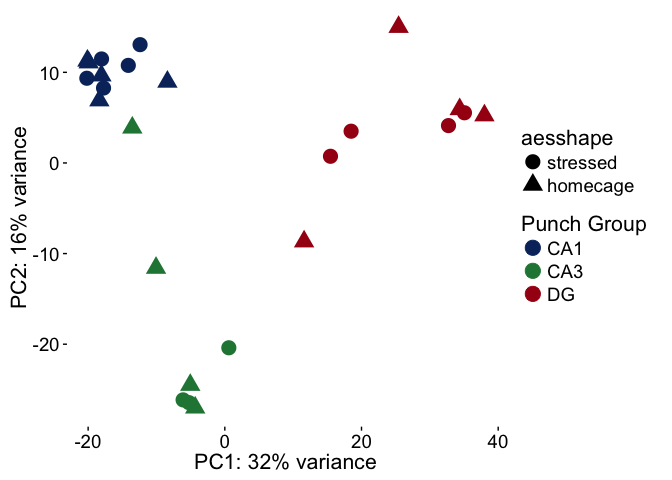
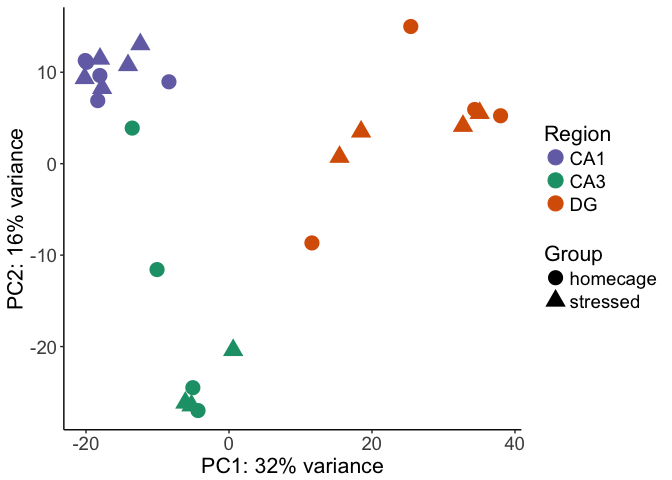
stress test

diff --git a/markdownfiles/02_StressTest.md b/markdownfiles/02_StressTest.md
@@ -1,19 +1,19 @@
-Methods for Dorsal Hippocampal Gene Expression Profiling
---------------------------------------------------------
+Behavioral Stress
+-----------------
 
-#### Part 1: Examining the influence of dissasociation on gene expression in the CA1, CA3, and DG
+In this analysis, I examine the effect that behavioral stress has on
+CA1, CA3, and DG gene expression relative to homogenized tissue samples.
 
 Subset to just look homogenized and dissociated samples
 -------------------------------------------------------
 
     colData <- colData %>%
-      filter(method != "dissociated") %>% droplevels()
+      filter(Method != "dissociated") %>% droplevels()
     colData$Group <- plyr::revalue(colData$Group, c("control"="stressed"))
+    colData$Group <- factor(colData$Group, levels = c("homecage", "stressed"))
     savecols <- as.character(colData$RNAseqID) #selects all good samples
     savecols <- as.vector(savecols) # make it a vector
     countData <- countData %>% select(one_of(savecols)) # keep good samples
-
-![](../figures/02_stresstest/DifferentialGeneExpressionAnalysis-1.png)
 
 This PCA gives an overview of the variability between samples using the
 a large matrix of log transformed gene expression data. You can see that
@@ -22,86 +22,65 @@ CA1 and CA3 samples have similar transcriptomes. The homogenized CA1
 samples have the most similar transcriptonal profiles as evidenced by
 their tight clustering.
 
-![](../figures/02_stresstest/PCA-1.png)![](../figures/02_stresstest/PCA-2.png)
+![](../figures/02_stresstest/PCA-1.png)
 
-This Venn Diagram shows the number of differentially expressed by
-contrast described above each oval. The most number of genes are
-differntially expressed between DG and the CAs (nearly 1000) wheras only
-about 200 were differntailly regulated as a result of of technical
-maniplulation comparing homogenized and dissociated samples.
+    ## DEG by contrasts
+    source("resvalsfunction.R")
+    contrast1 <- resvals(contrastvector = c('Region', 'CA1', 'DG'), mypval = 0.1)
 
-The first is with padj values. The second with p values
+    ## [1] 3109
+    ## [1] 1146
 
-![](../figures/02_stresstest/VennDiagram1-1.png)
+    contrast2 <- resvals(contrastvector = c('Region', 'CA3', 'DG'), mypval = 0.1)
 
-![](../figures/02_stresstest/VennDiagram2-1.png)
+    ## [1] 2808
+    ## [1] 783
 
-Here, the goal is the analyze the distribution of pvalues to see if they
-are randomly distributed or if that is a tendency towards and increase
-or decrease of low pvalues. There, I'm showing the pval and adjusted
-pvale (padj) for all for two-way comparision.
+    contrast3 <- resvals(contrastvector = c('Region', 'CA1', 'CA3'), mypval = 0.1)
 
-    head(rldpvals)
+    ## [1] 2262
+    ## [1] 295
 
-    ##               pvalPunchCA1DG padjPunchCA1DG pvalPunchCA3DG padjPunchCA3DG
-    ## 0610007P14Rik      0.4030957      0.9757038     0.27152521      0.8547496
-    ## 0610009B22Rik      0.4888569      1.0000000     0.07357699      0.5073331
-    ## 0610009L18Rik      0.9965304      1.0000000     0.69745038      0.9916077
-    ## 0610009O20Rik      0.8835251      1.0000000     0.55755277      0.9916077
-    ## 0610010F05Rik      0.4418263      0.9927153     0.86881766      1.0000000
-    ## 0610010K14Rik      0.5292212      1.0000000     0.47276217      0.9916077
-    ##               pvalPunchCA1CA3 padjPunchCA1CA3 pvalGrouphomecagestressed
-    ## 0610007P14Rik       0.7134215       1.0000000                 0.7743941
-    ## 0610009B22Rik       0.1990163       0.9230007                 0.9325932
-    ## 0610009L18Rik       0.6752917       1.0000000                 0.5127999
-    ## 0610009O20Rik       0.6253198       1.0000000                 0.5227737
-    ## 0610010F05Rik       0.3368704       1.0000000                 0.3754833
-    ## 0610010K14Rik       0.8766163       1.0000000                 0.7083453
-    ##               padjGrouphomecagestressed
-    ## 0610007P14Rik                 0.9995873
-    ## 0610009B22Rik                 0.9995873
-    ## 0610009L18Rik                 0.9995873
-    ## 0610009O20Rik                 0.9995873
-    ## 0610010F05Rik                 0.9995873
-    ## 0610010K14Rik                 0.9995873
+    contrast4 <- resvals(contrastvector = c('Group', 'homecage', 'stressed'), mypval = 0.1)
 
-    rldpvalslong <- rldpvals
-    rldpvalslong$gene <- row.names(rldpvalslong) 
-    rldpvalslong <- melt(rldpvalslong, id=c("gene"))
-    head(rldpvalslong)
+    ## [1] 899
+    ## [1] 0
 
-    ##            gene       variable     value
-    ## 1 0610007P14Rik pvalPunchCA1DG 0.4030957
-    ## 2 0610009B22Rik pvalPunchCA1DG 0.4888569
-    ## 3 0610009L18Rik pvalPunchCA1DG 0.9965304
-    ## 4 0610009O20Rik pvalPunchCA1DG 0.8835251
-    ## 5 0610010F05Rik pvalPunchCA1DG 0.4418263
-    ## 6 0610010K14Rik pvalPunchCA1DG 0.5292212
+Now, we can view a histogram of the distribution
 
-    qplot(value, data=rldpvalslong, geom="histogram") + 
-      facet_grid( ~ variable) +
-      scale_y_log10()
+![](../figures/02_stresstest/histogram-1.png)
 
-    ## `stat_bin()` using `bins = 30`. Pick better value with `binwidth`.
+    ## [1] 1
 
-    ## Warning: Removed 176 rows containing non-finite values (stat_bin).
+![](../figures/02_stresstest/histogram-2.png)
 
-    ## Warning: Stacking not well defined when ymin != 0
+    ## [1] 1
 
-![](../figures/02_stresstest/pvaluedistribution-1.png)
+![](../figures/02_stresstest/histogram-3.png)
 
-I'm not really happy with these two heat maps. Here's how I created
-them. Top heatmap: subset the data to give only the gene with an
-adjusted p value &lt; 0.05 for the homogenized vs dissociated
-comparisonany two-way comparsion. Bottom heatmap: subset the data to
-give only the gene with an adjusted p value &lt; 0.05 for two way brain
-region comparision (CA1 vs DG, CA3, vs DG, or CA1 vs DG)
+    ## [1] 1
 
-Here, you can see that the differences between samples is not as clear
-cut for all comparisions. What other mechanisms would be useful for
-subseting the data to identify genes of interest?
+![](../figures/02_stresstest/histogram-4.png)
 
-![](../figures/02_stresstest/Heatmap100DEgenes-1.png)
+    ## [1] 1
+
+This Venn Diagram sthe overlap of differentailly expression genes by
+Region and method. This shows all genes with *uncorrected* pvalue
+&lt;0.1.
+
+![](../figures/02_stresstest/VennDiagramPVal-1.png)
+
+This Venn Diagram sthe overlap of differentailly expression genes by
+Region and method. This shows all genes with *adjusted* pvalue &lt;0.1.
+
+![](../figures/02_stresstest/VennDiagramPadj-1.png)
+
+![](../figures/02_stresstest/HeatmapPadj-1.png)
+
+This shows how strongly correlated the samples are. Even across brain
+regions, correlation is super fucking hight.
+
+![](../figures/02_stresstest/sampleheatmap-1.png)![](../figures/02_stresstest/sampleheatmap-2.png)
 
 This is a data validation check plot. Here, I'm showing how many
 millions of reads were present in each sample. On average, each sample
@@ -125,15 +104,3 @@ had 5 million reads, but the range was from 0.8 to 10 millino reads.
     FALSE 5109  434  363  298  252  209  168  159  113  140  119  119  105   98   97 
     FALSE   15   16   17   18   19   20   21   22   23   24   25   26   27   28   29 
     FALSE   92   96   78   95   97   82   72   59   67   58   50   60   56   54   58
-
-These next graphs show the correlation between samples of CA1, CA3, and
-DG.
-
-![](../figures/02_stresstest/scatterplots-1.png)![](../figures/02_stresstest/scatterplots-2.png)
-
-This next plot shows the stregnth of the correlation between samples.
-
-![](../figures/02_stresstest/correlationmatrix-1.png)
-
-Save files for GO analysis. A total of 217 DEGs with unadjusted p-value
-&lt; 0.1 were input into the GO anlaysis.
